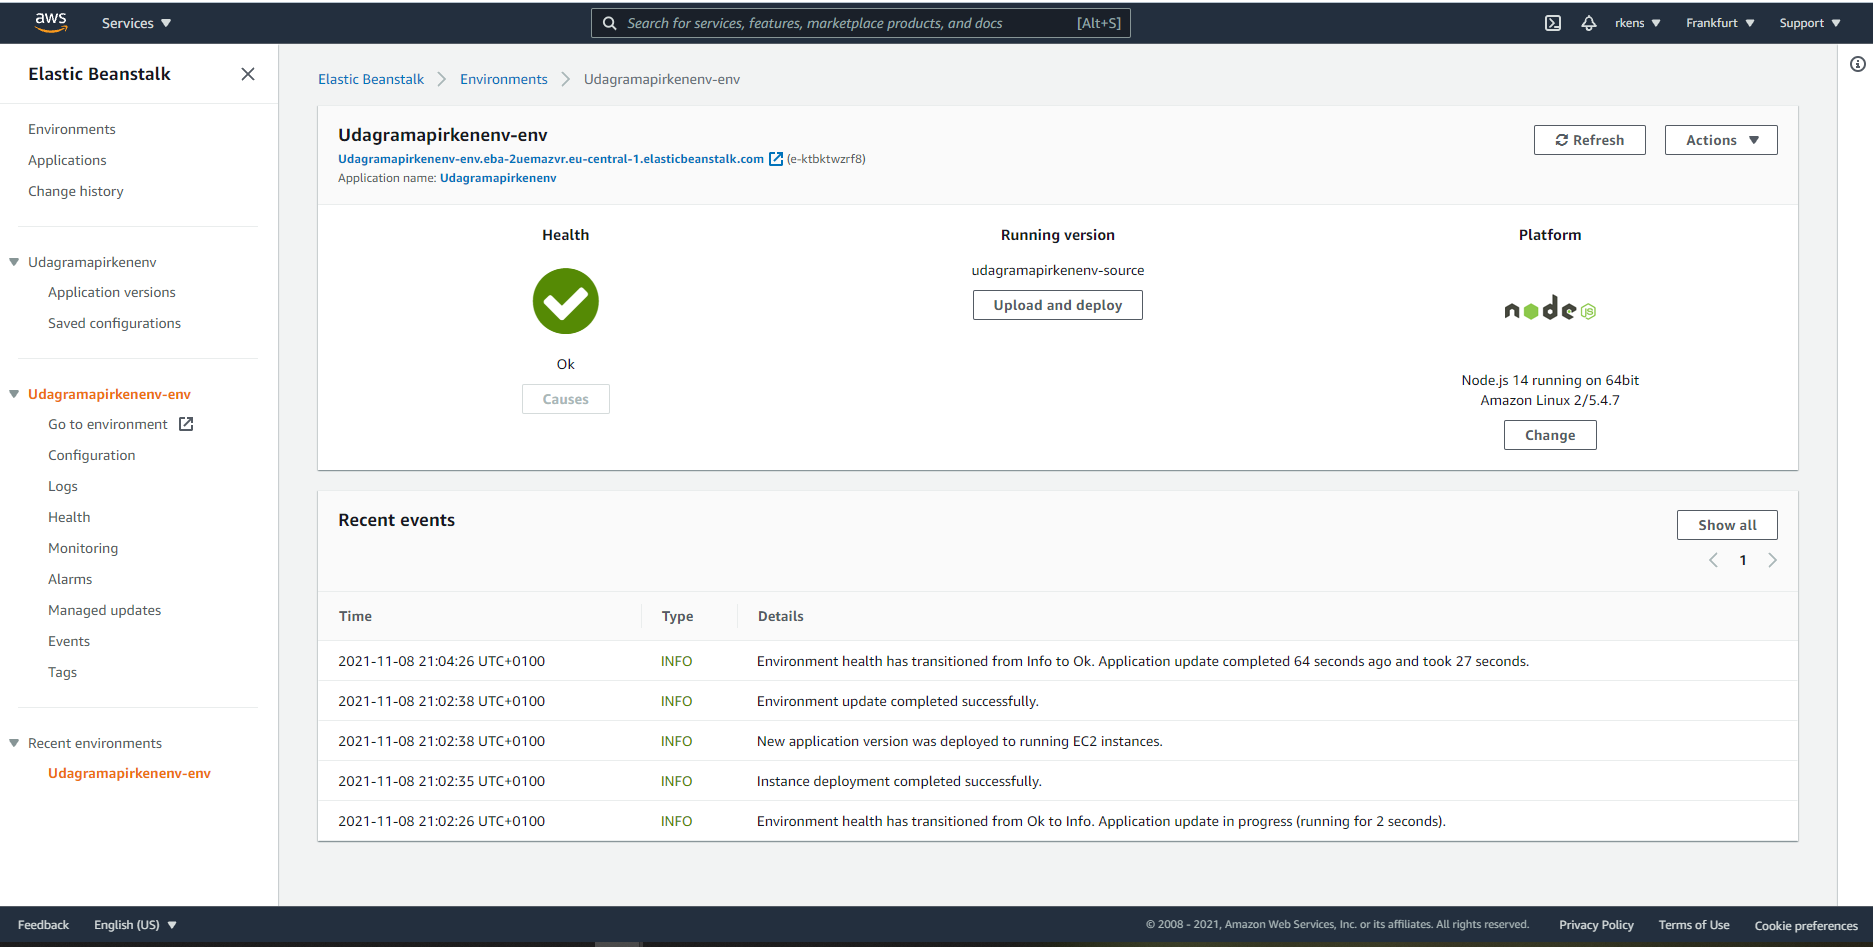
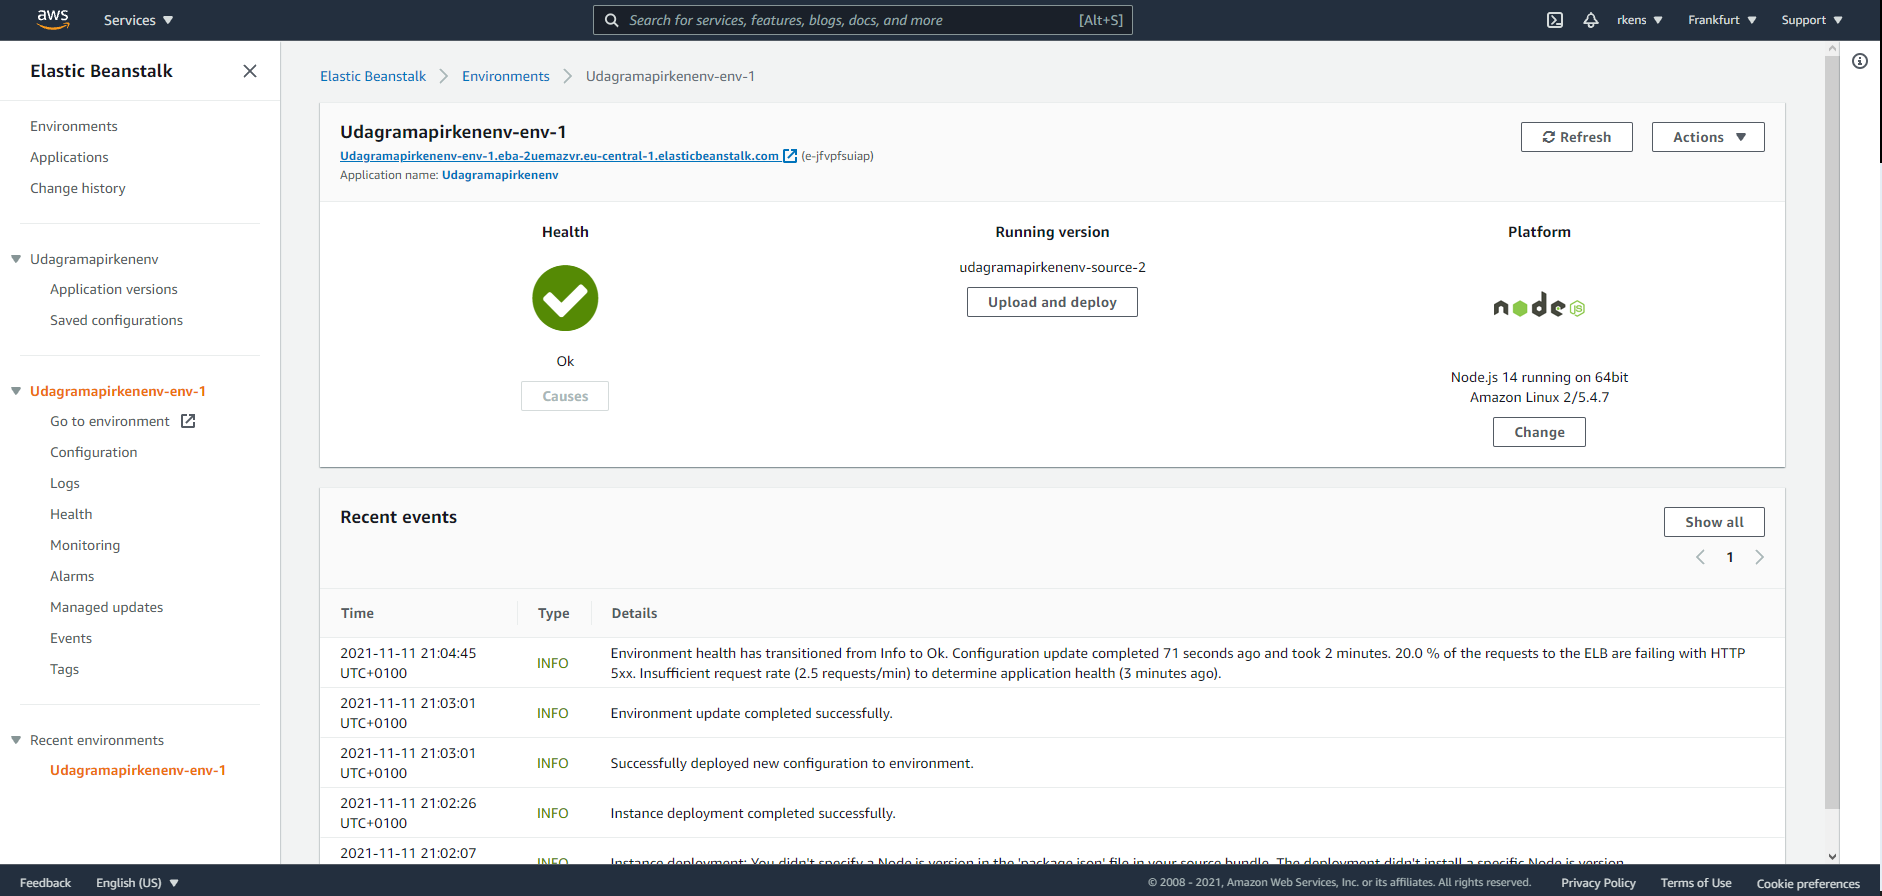
updated application dependencies file and beanstalk image

diff --git a/docs/Application_Dependencies.md b/docs/Application_Dependencies.md
@@ -9,4 +9,4 @@ The libraries used to build the project
 
 # Application URL
 
-http://udagram-full-stack-js-front-end-bucket-2.s3-website.eu-central-1.amazonaws.com/home
+http://udagramapirkenenv-env-1.eba-2uemazvr.eu-central-1.elasticbeanstalk.com
